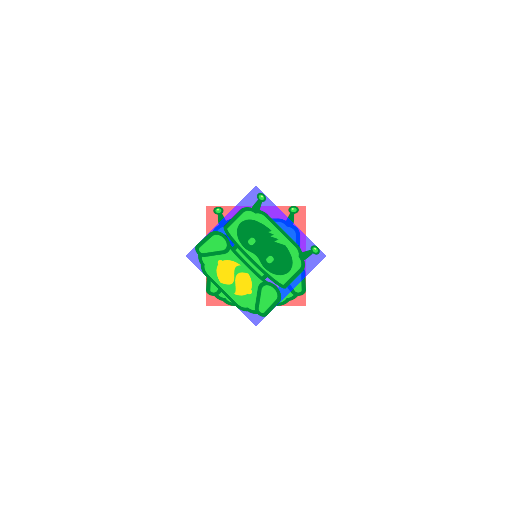
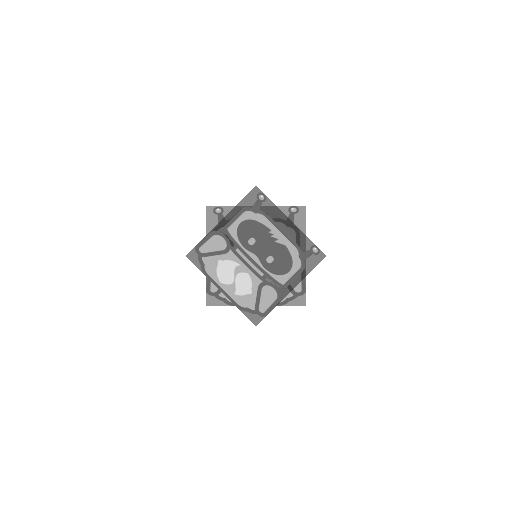
update example

Changed region(s): [[0.375, 0.375, 0.625, 0.625]]

diff --git a/examples/test-node3.js b/examples/test-node3.js
@@ -1,0 +1,127 @@
+const fs = require('fs');
+const {polyfill} = require('../lib/platform/node-canvas');
+const {Scene, Label, ENV} = require('../lib');
+
+polyfill({ENV});
+
+const scene = new Scene({width: 512, height: 512});
+const contextType = 'webgl';
+const fglayer = scene.layer('fglayer', {
+  contextType,
+});
+
+
+// const ss = new Sprite();
+// ss.attr({
+//   pos: [0, 0],
+//   size: [512, 512],
+//   bgcolor: 'rgba(255,255,255,0.5)',
+// });
+
+// fglayer.append(ss);
+
+const vertex = `
+  attribute vec3 a_vertexPosition;
+  attribute vec4 a_color;
+  varying vec4 vColor;
+  uniform mat3 viewMatrix;
+  uniform mat3 projectionMatrix;
+  attribute vec3 a_vertexTextureCoord;
+  varying vec3 vTextureCoord;
+
+  void main() {
+    gl_PointSize = 1.0;
+    vec3 pos = projectionMatrix * viewMatrix * vec3(a_vertexPosition.xy, 1.0);
+    gl_Position = vec4(pos.xy, 1.0, 1.0);
+    vColor = a_color;
+    vTextureCoord = a_vertexTextureCoord;
+  }
+`;
+
+const fragment = `
+  precision mediump float;
+  varying vec4 vColor;
+  varying vec3 vTextureCoord;
+  
+  uniform sampler2D u_texSampler;
+  uniform vec3 u_shadowColor;
+
+  vec3 blurX(in vec3 result) {
+    float weight[5];
+    weight[0] = 0.227027;
+    weight[1] = 0.1945946;
+    weight[2] = 0.1216216;
+    weight[3] = 0.054054;
+    weight[4] = 0.016216;
+    result *= weight[0];
+    vec2 tex_offset = vec2(0.01);
+    for(int i = 1; i < 5; ++i) {
+      float f = float(i);
+      result += texture2D(u_texSampler, vTextureCoord.xy + vec2(tex_offset.x * f, 0.0)).rgb * weight[i];
+      result += texture2D(u_texSampler, vTextureCoord.xy - vec2(tex_offset.x * f, 0.0)).rgb * weight[i];
+    }
+    return result;
+  }
+
+  vec3 blurY(in vec3 result) {
+    float weight[5];
+    weight[0] = 0.227027;
+    weight[1] = 0.1945946;
+    weight[2] = 0.1216216;
+    weight[3] = 0.054054;
+    weight[4] = 0.016216;
+    result *= weight[0];
+    vec2 tex_offset = vec2(0.01);
+    for(int i = 1; i < 5; ++i) {
+      float f = float(i);
+      result += texture2D(u_texSampler, vTextureCoord.xy + vec2(tex_offset.y * f, 0.0)).rgb * weight[i];
+      result += texture2D(u_texSampler, vTextureCoord.xy - vec2(tex_offset.y * f, 0.0)).rgb * weight[i];
+    }
+    return result;
+  }
+
+  void main() {
+    vec4 color = vColor;
+    vec4 texColor = texture2D(u_texSampler, vTextureCoord.xy);
+    // texColor.rgb = u_shadowColor;
+    float alpha = texColor.a;
+    vec3 result = texColor.rgb;
+
+    for(int i = 1; i < 5; i++) {
+      result = blurX(result);
+    }
+    for(int i = 1; i < 5; i++) {
+      result = blurY(result);
+    }
+
+    color.rgb = mix(color.rgb, result, alpha);
+    color.rgb = mix(result, color.rgb, clamp(color.a / max(0.0001, texColor.a), 0.0, 1.0));
+    color.a = texColor.a + (1.0 - texColor.a) * color.a;
+    gl_FragColor = color;
+  }
+`;
+
+const program = fglayer.renderer.createProgram({vertex, fragment});
+
+const text = new Label('ABC');
+text.attr({
+  pos: [256, 256],
+  size: [100, 100],
+  anchor: 0.5,
+  bgcolor: 'rgba(255, 0, 0, 0.5)',
+  // filter: 'grayscale(1.0)',
+  font: 'normal 32px Arial',
+});
+text.setProgram(program);
+text.setUniforms({
+  u_shadowColor: [1, 1, 0],
+});
+
+fglayer.append(text);
+
+// await fglayer.prepareRender;
+
+text.textImageReady.then(() => {
+  const canvas = scene.snapshot();
+  fs.writeFileSync(`snap.text.${contextType}.png`, canvas.toBuffer());
+});

diff --git a/examples/test-node.js b/examples/test-node.js
@@ -31,6 +31,7 @@ const url = 'https://p0.ssl.qhimg.com/t01a72262146b87165f.png';
     bgcolor: 'rgba(255, 0, 0, 0.5)',
     // bgcolor: 'red',
     // opacity: 1.0,
+    filter: 'grayscale(0.5)',
     texture: 'robot',
   });
 

diff --git a/examples/test_label2.html b/examples/test_label2.html
@@ -47,7 +47,7 @@
       font: 'bold 48px Arial',
       fillColor: '#ffdc45',
       text: '你好',
-      filter: 'grayscale(1)',
+      filter: 'drop-shadow(2px, 2px, 10px, #FF6040)',
     });
 
     text1.animate([
